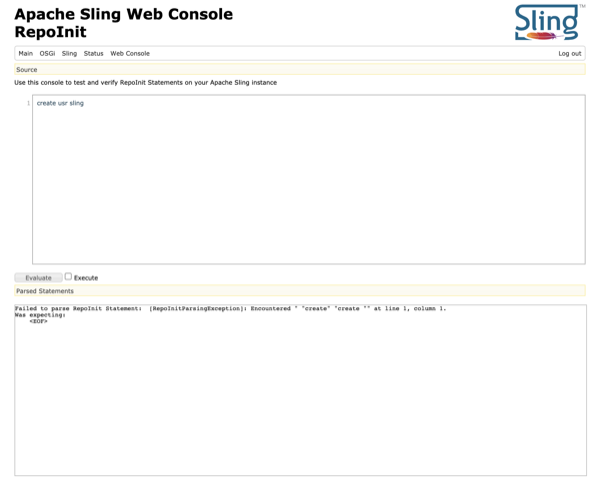
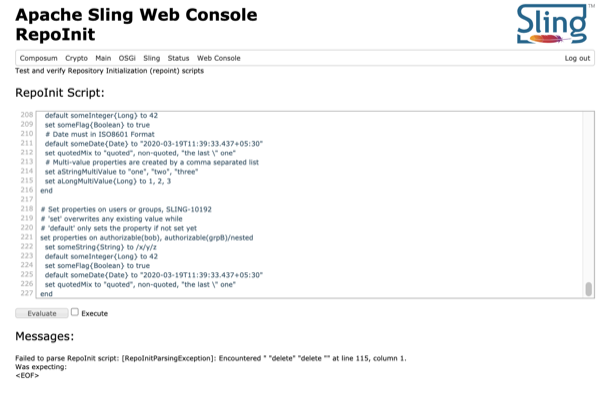
Updating the UI and documentation

Changed region(s): [[0.0, 0.0, 1.0, 0.9343]]

diff --git a/org.apache.sling.repoinit.webconsole/src/main/resources/tpl/main.html b/org.apache.sling.repoinit.webconsole/src/main/resources/tpl/main.html
@@ -5,8 +5,8 @@
     the License for the specific language governing permissions and limitations under the License. -->
 <link rel="stylesheet" type="text/css" href="repoinit/res/ui/tln.min.css" />
 <link rel="stylesheet" type="text/css" href="repoinit/res/ui/repoinit.css" />
-<p class="statline ui-state-highlight">Source</p>
 <p>Test and verify Repository Initialization (repoint) scripts</p>
+<h2>RepoInit Script:</h2>
 <div class="wrapper">
   <textarea id="source"></textarea>
 </div>
@@ -14,13 +14,14 @@
 <input type="checkbox" id="execute" name="execute" />
 <label for="execute">Execute</label>
 <div class="d-none" id="results-container">
-  <div class="statline ui-state-highlight" id="messages"></div>
+  <h2>Messages:</h2>
+  <div id="messages"></div>
   <div class="d-none" id="parsed-container">
-    <p class="statline ui-state-highlight">Parsed Statements</p>
+    <h2>Parsed Statements:</h2>
     <pre id="parsed"></pre>
   </div>
   <div class="d-none" id="feature-container">
-    <p class="statline ui-state-highlight">Feature Model JSON</p>
+    <h2>Feature Model JSON:</h2>
     <pre id="feature"></pre>
   </div>
 </div>

diff --git a/org.apache.sling.repoinit.webconsole/src/main/resources/res/ui/repoinit.js b/org.apache.sling.repoinit.webconsole/src/main/resources/res/ui/repoinit.js
@@ -47,7 +47,7 @@ goButton.addEventListener("click", async function () {
   });
 
   // if there are operations diplay the statements and feature
-  if (json.operations) {
+  if (json.hasOwnProperty('operations') && json.operations) {
     parsedEl.innerText = JSON.stringify(json.operations, null, 2);
     parsedContainerEl.classList.remove("d-none");
     featureEl.innerText = JSON.stringify(
@@ -58,6 +58,9 @@ goButton.addEventListener("click", async function () {
       2
     );
     featureContainerEl.classList.remove("d-none");
+  } else {
+    parsedContainerEl.classList.add("d-none");
+    featureContainerEl.classList.add("d-none");
   }
 
   // show the results

diff --git a/org.apache.sling.repoinit.webconsole/src/main/resources/res/ui/repoinit.css b/org.apache.sling.repoinit.webconsole/src/main/resources/res/ui/repoinit.css
@@ -14,13 +14,18 @@
  * See the License for the specific language governing permissions and
  * limitations under the License.
  */
+h2 {
+  font-size: large;
+  margin: 1em 0;
+}
 pre {
   border: 1px solid silver;
 }
 .d-none {
   display: none;
 }
-.wrapper, pre {
+.wrapper,
+pre {
   position: relative;
   height: 300px;
   width: 100%;

diff --git a/startup-tracker/org.apache.sling.startup.tracker/src/main/java/org/apache/sling/startup/tracker/StartupListener.java b/startup-tracker/org.apache.sling.startup.tracker/src/main/java/org/apache/sling/startup/tracker/StartupListener.java
@@ -1,0 +1,67 @@
+/*
+ * Licensed to the Apache Software Foundation (ASF) under one
+ * or more contributor license agreements.  See the NOTICE file
+ * distributed with this work for additional information
+ * regarding copyright ownership.  The ASF licenses this file
+ * to you under the Apache License, Version 2.0 (the
+ * "License"); you may not use this file except in compliance
+ * with the License.  You may obtain a copy of the License at
+ *
+ *   http://www.apache.org/licenses/LICENSE-2.0
+ *
+ * Unless required by applicable law or agreed to in writing,
+ * software distributed under the License is distributed on an
+ * "AS IS" BASIS, WITHOUT WARRANTIES OR CONDITIONS OF ANY
+ * KIND, either express or implied.  See the License for the
+ * specific language governing permissions and limitations
+ * under the License.
+ */
+package org.apache.sling.startup.tracker;
+
+import java.util.HashMap;
+import java.util.Map;
+
+import org.osgi.framework.BundleEvent;
+import org.osgi.framework.FrameworkEvent;
+import org.osgi.framework.FrameworkListener;
+import org.osgi.framework.ServiceEvent;
+import org.osgi.framework.ServiceListener;
+import org.osgi.framework.SynchronousBundleListener;
+import org.osgi.service.component.annotations.Component;
+
+/**
+ * 
+ */
+@Component(service = { ServiceListener.class, SynchronousBundleListener.class, FrameworkListener.class })
+public class StartupListener implements ServiceListener, SynchronousBundleListener, FrameworkListener {
+
+    private Map<String, AbstractStartupItem> startupRecords = new HashMap<>();
+
+    private String currentStartLevel = "0";
+
+    @Override
+    public void serviceChanged(ServiceEvent event) {
+        event.
+    }
+
+    @Override
+    public void bundleChanged(BundleEvent event) {
+        String bundlePid = event.getBundle().getSymbolicName();
+        if (event.getType() == BundleEvent.INSTALLED) {
+            BundleStartup bundle = new BundleStartup(currentStartLevel, bundlePid);
+            startupRecords.put(bundle.getId(), bundle);
+        } else if (event.getType() == BundleEvent.STARTED || event.getType() == BundleEvent.LAZY_ACTIVATION) {
+            startupRecords.get(ItemType.getId(ItemType.BUNDLE, bundlePid)).setComplete(System.currentTimeMillis());
+        } else {
+            BundleEventItem evt = new BundleEventItem(event);
+            startupRecords.put(evt.getId(), evt);
+        }
+    }
+
+    @Override
+    public void frameworkEvent(FrameworkEvent event) {
+        // TODO Auto-generated method stub
+
+    }
+
+}

diff --git a/startup-tracker/org.apache.sling.startup.tracker/src/main/java/org/apache/sling/startup/tracker/BundleEventItem.java b/startup-tracker/org.apache.sling.startup.tracker/src/main/java/org/apache/sling/startup/tracker/BundleEventItem.java
@@ -1,0 +1,47 @@
+package org.apache.sling.startup.tracker;
+
+import java.util.Collections;
+import java.util.Map;
+import java.util.stream.Collectors;
+import java.util.stream.Stream;
+
+import org.osgi.framework.BundleEvent;
+
+public class BundleEventItem extends AbstractStartupItem {
+
+    public static final Map<Integer, String> EVENT_TYPES = Stream
+            .of(new Object[][] { { 0x00000001, "INSTALLED" }, { 0x00000002, "STARTED" }, { 0x00000004, "STOPPED" },
+                    { 0x00000008, "UPDATED" }, { 0x00000010, "UNINSTALLED" }, { 0x00000020, "RESOLVED" },
+                    { 0x00000040, "UNRESOLVED" }, { 0x00000080, "STARTING" }, { 0x00000100, "STOPPING" },
+                    { 0x00000200, "LAZY_ACTIVATION" }, })
+            .collect(Collectors.collectingAndThen(Collectors.toMap(data -> (Integer) data[0], data -> (String) data[1]),
+                    Collections::<Integer, String>unmodifiableMap));
+
+    private final String event;
+    private final String bundlePid;
+
+    public BundleEventItem(BundleEvent event) {
+        super();
+        this.setComplete(System.currentTimeMillis());
+
+        this.bundlePid = event.getBundle().getSymbolicName();
+        this.event = EVENT_TYPES.get(event.getType());
+
+    }
+
+    @Override
+    public String getId() {
+        return ItemType.getId(ItemType.BUNDLE_EVENT, bundlePid + "/" + event);
+    }
+
+    @Override
+    public String getMessage() {
+        return String.format("Bundle %s: %s", bundlePid, event);
+    }
+
+    @Override
+    public String getParentId() {
+        return ItemType.getId(ItemType.BUNDLE, bundlePid);
+    }
+
+}

diff --git a/startup-tracker/org.apache.sling.startup.tracker/src/main/java/org/apache/sling/startup/tracker/BundleStartup.java b/startup-tracker/org.apache.sling.startup.tracker/src/main/java/org/apache/sling/startup/tracker/BundleStartup.java
@@ -1,0 +1,28 @@
+package org.apache.sling.startup.tracker;
+
+public class BundleStartup extends AbstractStartupItem {
+
+    private final String bundlePid;
+    private final String startLevel;
+
+    public BundleStartup(String startLevel, String bundlePid) {
+        super();
+        this.bundlePid = bundlePid;
+        this.startLevel = startLevel;
+    }
+
+    @Override
+    public String getId() {
+        return ItemType.getId(ItemType.BUNDLE, bundlePid);
+    }
+
+    @Override
+    public String getMessage() {
+        return "Bundle " + bundlePid;
+    }
+
+    @Override
+    public String getParentId() {
+        return ItemType.getId(ItemType.START_LEVEL, startLevel);
+    }
+}

diff --git a/startup-tracker/org.apache.sling.startup.tracker/src/main/java/org/apache/sling/startup/tracker/AbstractStartupItem.java b/startup-tracker/org.apache.sling.startup.tracker/src/main/java/org/apache/sling/startup/tracker/AbstractStartupItem.java
@@ -1,0 +1,29 @@
+package org.apache.sling.startup.tracker;
+
+public abstract class AbstractStartupItem {
+    private final long start;
+    private long complete;
+
+    protected AbstractStartupItem() {
+        this.start = System.currentTimeMillis();
+    }
+
+    public long getComplete() {
+        return complete;
+    }
+
+    public void setComplete(long complete) {
+        this.complete = complete;
+    }
+
+    public abstract String getId();
+
+    public abstract String getMessage();
+
+    public abstract String getParentId();
+
+    public long getStart() {
+        return start;
+    }
+
+}

diff --git a/startup-tracker/org.apache.sling.startup.tracker/src/main/java/org/apache/sling/startup/tracker/ItemType.java b/startup-tracker/org.apache.sling.startup.tracker/src/main/java/org/apache/sling/startup/tracker/ItemType.java
@@ -1,0 +1,10 @@
+package org.apache.sling.startup.tracker;
+
+public enum ItemType {
+
+    BUNDLE, BUNDLE_EVENT, SERVICE, START_LEVEL;
+
+    public static final String getId(ItemType type, String itemId) {
+        return type.name() + "::" + itemId;
+    }
+}

diff --git a/org.apache.sling.repoinit.webconsole/README.md b/org.apache.sling.repoinit.webconsole/README.md
@@ -34,7 +34,7 @@ Assuming the script is valid a JSON representation will be displayed in the `Par
 
 ![Evaluating a RepoInit Statement](docs/Evaluate.png)
 
-If your script is not valid, an error message will be displayed in the `Parsed Statements` section. 
+If your script is not valid, an error message will be displayed in the `Messages` section. 
 
 ![Example Error Message](docs/Error.png)
 
